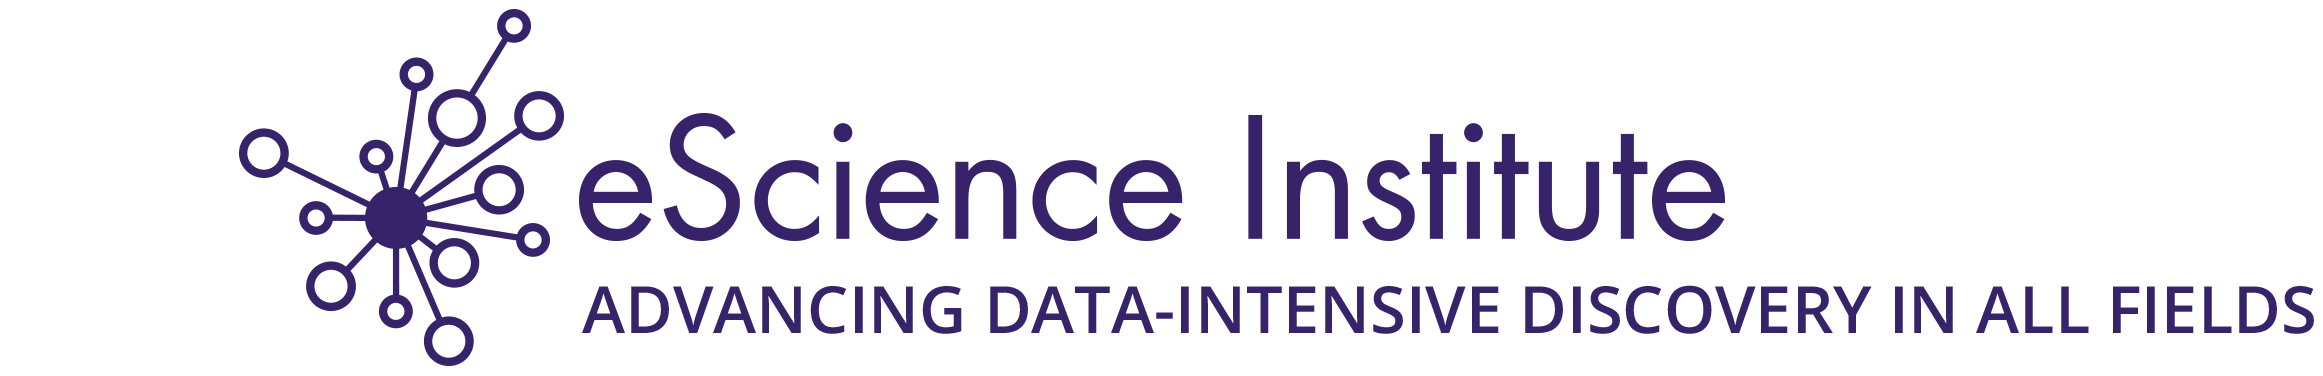
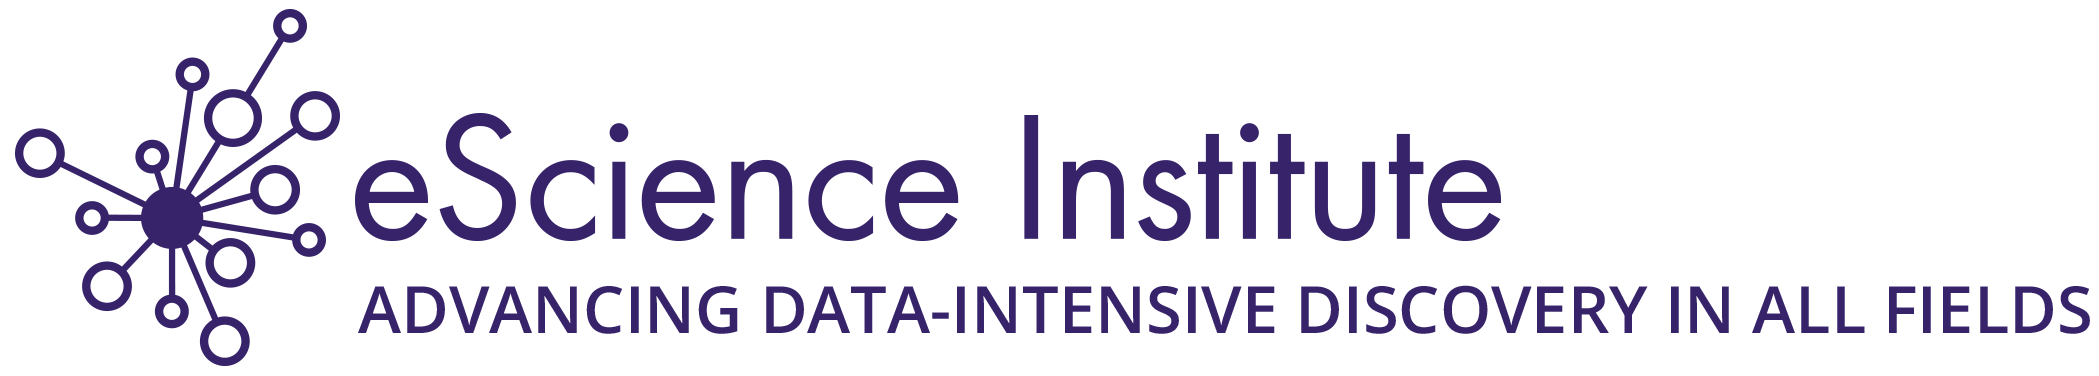
fixed sponsor size

Changed region(s): [[0.0, 0.0293, 1.0, 0.9654], [0.2168, 0.0293, 0.2477, 0.117]]

diff --git a/assets/css/main.css b/assets/css/main.css
@@ -3963,9 +3963,9 @@
 	display: inline-block;
     max-width: 100%;
 	min-width: 225px;
-    width: 25%;
+    width: 22%;
 	height: 200px;
-	margin: 8px;
+	margin: 10px;
 }
 
 .sponsors-logo > img {
